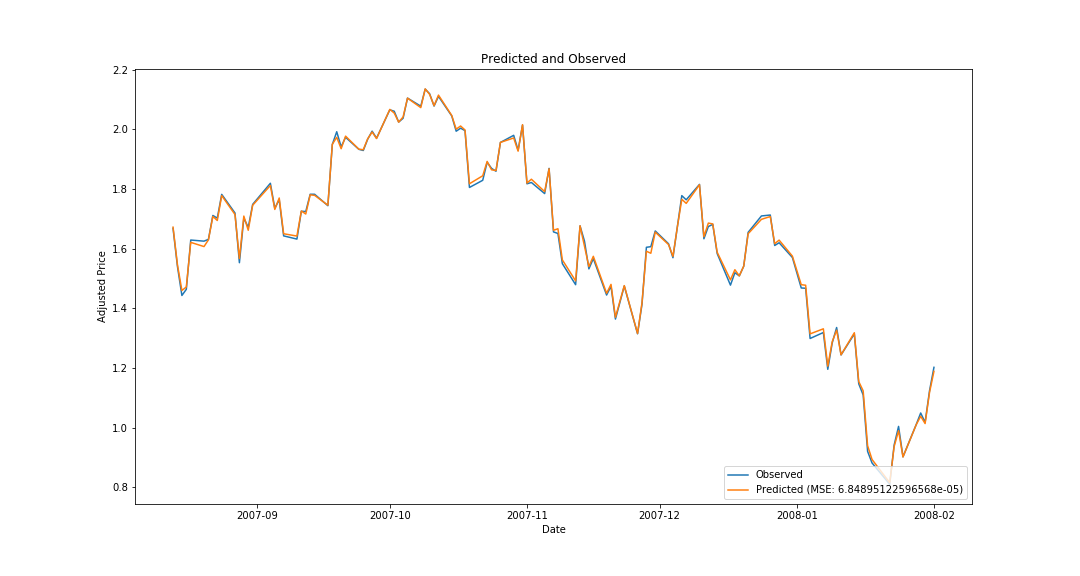
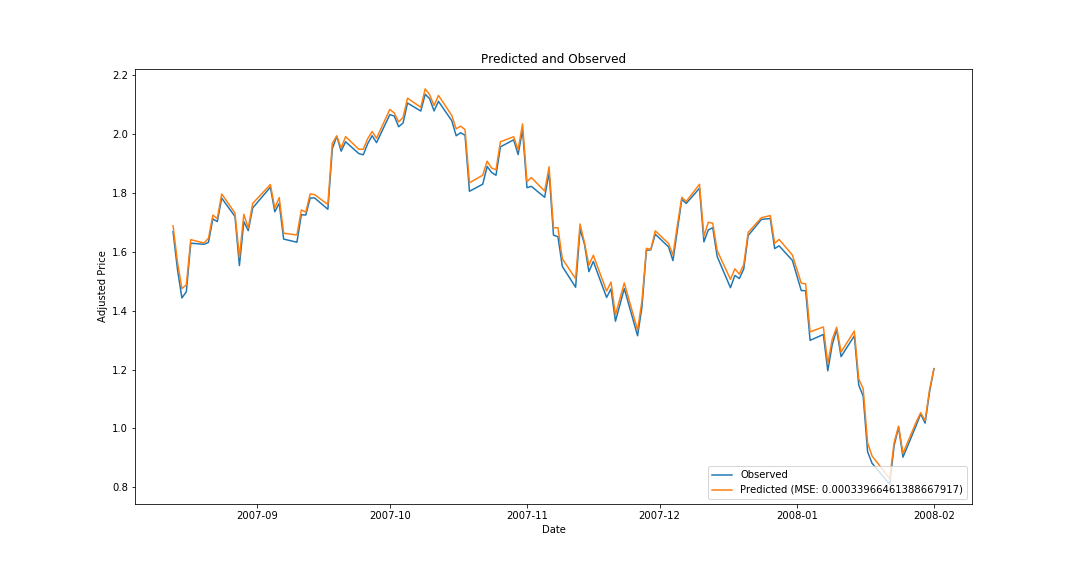
FastScore Model

diff --git a/Examples and Tutorials/Tensorflow LSTM/index.md b/Examples and Tutorials/Tensorflow LSTM/index.md
@@ -1,4 +1,4 @@
-# Tensorflow LSTM
+# TensorFlow LSTM
 
 In this tutorial, we'll create an LSTM neural network using time series data (
 historical S&P 500 closing prices), and then deploy this model in FastScore.
@@ -171,10 +171,10 @@ This function accepts several inputs:
 * `seed` is a random seed to use. Fixing the seed will make training data
   generation reproducible.
 
-## Implementing the Model in Tensorflow
+## Implementing the Model in TensorFlow
 
 With our input data scaled and normalized, and a function defined to generate
-training data, we're now ready to build our model. Begin by importing Tensorflow:
+training data, we're now ready to build our model. Begin by importing TensorFlow:
 ```python
 import tensorflow as tf
 ```
@@ -321,5 +321,160 @@ plot_predict_date(split_date, sp500['Adjusted Normalized Close'], steps_forward 
 
 ![Predicted vs Observed, Test Data](images/example_observed_vs_predicted_2007-06-01.png)
 
-We've achieved a MSE of 9.75e-5 on our test data, which is pretty good
+We've achieved a MSE of 0.00028 on our test data, which is pretty good
 given that the model was only trained on pre-crisis data.
+
+## FastScore Deployment
+
+Deploying our trained model in FastScore is straightforward. A FastScore Python
+model script must define an `action` method, and may additionally define `begin`
+and `end` methods for intialization/uninitialization, as well as any user-defined
+functions or imports needed.
+
+For initialization, we'll define a `begin` function that creates all of the
+same TensorFlow variables we constructed for model training, and initializes
+our session:
+
+```python
+def begin():
+    tf.logging.set_verbosity(tf.logging.WARN)
+
+    global past_days
+    past_days = []
+
+    global n_steps, X, outputs, sess
+    n_steps = 30
+    n_inputs = 1
+    n_outputs = 1
+    n_layers = 3
+    n_units = 100
+    save_name = 'tf_sp500_lstm'
+
+    X = tf.placeholder(tf.float32, [None, n_steps, n_inputs])
+    y = tf.placeholder(tf.float32, [None, n_steps, n_outputs])
+    layers = [tf.contrib.rnn.BasicLSTMCell(num_units = n_units) for k in range(n_layers)]
+    cell = tf.contrib.rnn.OutputProjectionWrapper(
+      tf.contrib.rnn.MultiRNNCell(layers), output_size = n_outputs)
+    outputs, states = tf.nn.dynamic_rnn(cell, X, dtype=tf.float32)
+    saver = tf.train.Saver()
+    sess = tf.Session()
+    saver.restore(sess, './{}'.format(save_name))
+```
+
+Using the `global` keyword makes all of these variables accessible later in
+other methods. We also have a `past_days` variable---when deployed, this model
+will receive individual prices as inputs, and we'll accumulate the last 30 of them
+in `past_days`. In contrast to the model training code, we're not using context
+management to control our TensorFlow session---instead, the session is manually
+started in the `begin` method, and we'll manually close it at the end of the
+model run with the `end` method:
+
+```python
+def end():
+    sess.close()
+```
+
+Next, let's copy our `predict` method over from the model testing, and make some
+slight modifications:
+
+```python
+def predict(inputs):
+    if len(inputs[0,:,0]) < n_steps:
+        raise Exception("Insufficient inputs! X should be an array of shape (1, k, 1) where k >= n_steps")
+
+    preds = []
+    steps_forward = len(inputs[0,:,0]) - n_steps + 1
+    for j in range(0, steps_forward):
+        X_in = inputs[:,j:j+n_steps,:]
+        y_pred = sess.run(outputs, feed_dict = {X: X_in})
+        preds.append(y_pred[0,-1,0]) # add the last one
+    return np.array(preds).reshape(-1, len(preds), 1)
+```
+
+The `predict` method has been slightly simplified: we no longer restore the session
+from the save file (it is already restored and opened in the `begin` method), but
+is otherwise identical.
+
+Finally, the `action` method is the hook that the FastScore engine uses to produce
+scores. It will take as input a closing price, and produce as output the prediction
+for the next day's closing price.
+
+```python
+def action(x):
+    global past_days
+    past_days.append(x)
+    past_days = past_days[-n_steps:]
+    if len(past_days) == n_steps:
+        result = predict(np.array(past_days).reshape(-1, n_steps, 1))[0, 0, 0]
+        yield result
+```
+
+Because the TensorFlow model uses 30 days' worth of prices to make predictions,
+we need to keep track of the last 30 inputs received. (Recall that the 30 days is
+determined by the `n_steps` variable). Tracking the previous inputs is handled by
+`past_days`, which was initialized in the `begin` method to an empty
+list. As written, the model will only produce output when it has accumulated enough
+inputs to make a prediction.
+
+The inputs and outputs of this model will be doubles, so let's add smart comments
+to the top of the model code to indicate this. In total, our FastScore-ready
+model is:
+
+```python
+# fastscore.schema.0: double
+# fastscore.schema.1: double
+
+import tensorflow as tf
+import numpy as np
+
+def begin():
+    tf.logging.set_verbosity(tf.logging.WARN)
+
+    global past_days
+    past_days = []
+
+    global n_steps, X, outputs, sess
+    n_steps = 30
+    n_inputs = 1
+    n_outputs = 1
+    n_layers = 3
+    n_units = 100
+    save_name = 'tf_sp500_lstm'
+
+    X = tf.placeholder(tf.float32, [None, n_steps, n_inputs])
+    y = tf.placeholder(tf.float32, [None, n_steps, n_outputs])
+    layers = [tf.contrib.rnn.BasicLSTMCell(num_units = n_units) for k in range(n_layers)]
+    cell = tf.contrib.rnn.OutputProjectionWrapper(
+      tf.contrib.rnn.MultiRNNCell(layers), output_size = n_outputs)
+    outputs, states = tf.nn.dynamic_rnn(cell, X, dtype=tf.float32)
+    saver = tf.train.Saver()
+    sess = tf.Session()
+    saver.restore(sess, './{}'.format(save_name))
+
+def predict(inputs):
+    if len(inputs[0,:,0]) < n_steps:
+        raise Exception("Insufficient inputs! X should be an array of shape (1, k, 1) where k >= n_steps")
+
+    preds = []
+    steps_forward = len(inputs[0,:,0]) - n_steps + 1
+    for j in range(0, steps_forward):
+        X_in = inputs[:,j:j+n_steps,:]
+        y_pred = sess.run(outputs, feed_dict = {X: X_in})
+        preds.append(y_pred[0,-1,0]) # add the last one
+    return np.array(preds).reshape(-1, len(preds), 1)
+
+def action(x):
+    global past_days
+    past_days.append(x)
+    past_days = past_days[-n_steps:]
+    if len(past_days) == n_steps:
+        result = predict(np.array(past_days).reshape(-1, n_steps, 1))[0, 0, 0]
+        yield result
+
+def end():
+    sess.close()
+```
+
+Note that we'll additionally need to bundle the `tf_sp500_lstm` TensorFlow session
+checkpoints with our model in order for it to execute in FastScore; to do this,
+save the checkpoint as a model attachment.
